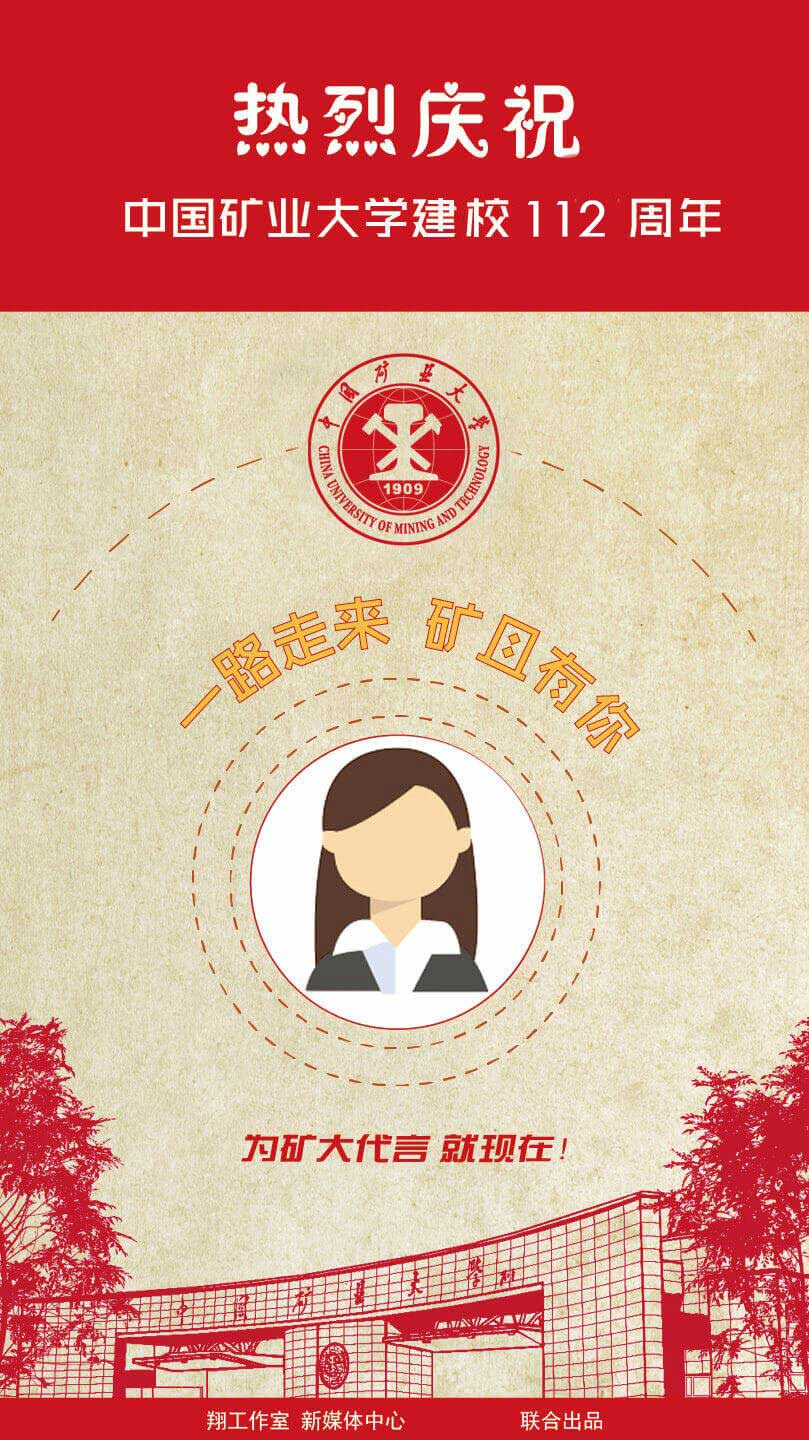
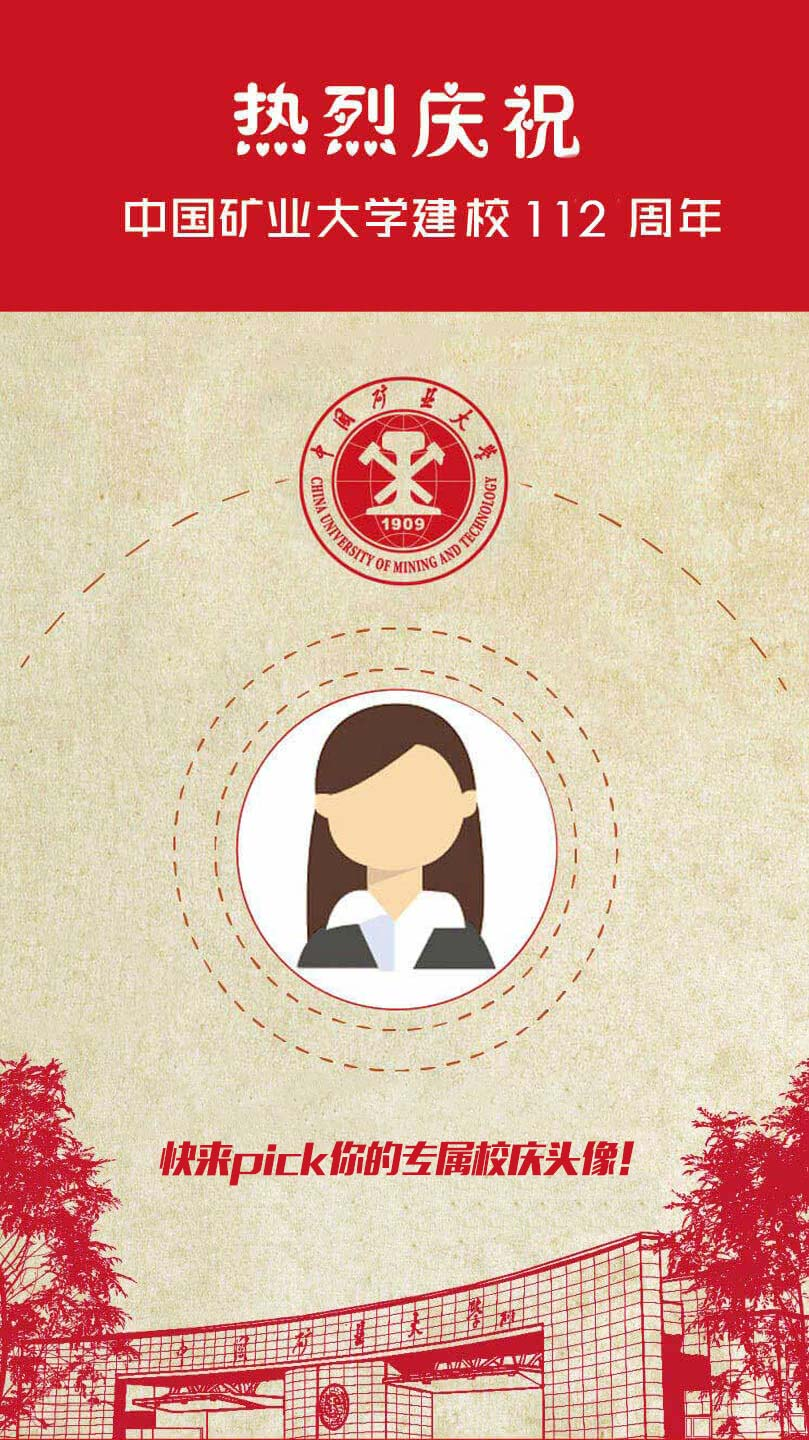
112周年前端页面

diff --git a/pages/index/index.js b/pages/index/index.js
@@ -38,7 +38,7 @@ Page({
   },
 
   runWhenFinishReady: function () {
-    for (let i = 0; i <= 13; i++) {
+    for (let i = 0; i <= 14; i++) {
       this.data.logoArr.push(`../../resource/images/logo_${i}.png`)
     }
     if (app.globalData.avatarUrl) {
@@ -94,15 +94,18 @@ Page({
     } else if (6 <= logoPath && logoPath <= 7) {
       ctx.drawImage(avatarPath, cWidth * 1 / 20, cWidth * 1 / 20, cWidth * 9 / 10, cWidth * 9 / 10);
       ctx.drawImage(that.data.logoArr[logoPath], 0, 0, cWidth, cWidth);
-    } else if (8 <= logoPath && logoPath <= 12) {
+    } else if (8 <= logoPath && logoPath <= 11) {
       ctx.drawImage(avatarPath, cWidth / 16, cWidth / 16, cWidth * 7 / 8, cWidth * 7 / 8);
       ctx.drawImage(that.data.logoArr[logoPath], 0, 0, cWidth, cWidth);
-    } else if (logoPath === 13) {
+    } else if (logoPath === 12) {
       ctx.drawImage(avatarPath, cWidth * 1 / 14, cWidth * 1 / 14, cWidth * 6 / 7, cWidth * 6 / 7);
-      ctx.drawImage(that.data.logoArr[logoPath], 0, 0, cWidth, cWidth);
+      ctx.drawImage(that.data.logoArr[logoPath], 1, -5, cWidth, cWidth);
+    }else if (logoPath === 13) {
+      ctx.drawImage(avatarPath, cWidth * 1 / 14, cWidth * 1 / 14, cWidth * 6 / 7, cWidth * 6 / 7);
+      ctx.drawImage(that.data.logoArr[logoPath], 2, 0, cWidth, cWidth);
     } else if (logoPath === 14) {
-      ctx.drawImage(avatarPath, cWidth * 1 / 8, cWidth * 1 / 8, cWidth * 3 / 4, cWidth * 3 / 4);
-      ctx.drawImage(that.data.logoArr[logoPath], 0, 0, cWidth, cWidth);
+      ctx.drawImage(avatarPath, cWidth * 1 / 14, cWidth * 1 / 14, cWidth * 6 / 7, cWidth * 6 / 7);
+      ctx.drawImage(that.data.logoArr[logoPath], -3, 0, cWidth, cWidth);
     }
 
     ctx.draw();
@@ -132,14 +135,17 @@ Page({
         } else if (6 <= logoPath && logoPath <= 7) {
           ctxHide.drawImage(avatarPath, cWidthHide * 1 / 20, cWidthHide * 1 / 20, cWidthHide * 9 / 10, cWidthHide * 9 / 10);
           ctxHide.drawImage(that.data.logoArr[logoPath], 0, 0, cWidthHide, cWidthHide);
-        } else if (8 <= logoPath && logoPath <= 12) {
+        } else if (8 <= logoPath && logoPath <= 11) {
           ctxHide.drawImage(avatarPath, cWidthHide / 16, cWidthHide / 16, cWidthHide * 7 / 8, cWidthHide * 7 / 8);
+          ctxHide.drawImage(that.data.logoArr[logoPath], 0, 0, cWidthHide, cWidthHide);
+        } else if (logoPath === 12) {
+          ctxHide.drawImage(avatarPath, cWidthHide * 1 / 14, cWidthHide * 1 / 14, cWidthHide * 6 / 7, cWidthHide * 6 / 7);
           ctxHide.drawImage(that.data.logoArr[logoPath], 0, 0, cWidthHide, cWidthHide);
         } else if (logoPath === 13) {
           ctxHide.drawImage(avatarPath, cWidthHide * 1 / 14, cWidthHide * 1 / 14, cWidthHide * 6 / 7, cWidthHide * 6 / 7);
           ctxHide.drawImage(that.data.logoArr[logoPath], 0, 0, cWidthHide, cWidthHide);
         } else if (logoPath === 14) {
-          ctxHide.drawImage(avatarPath, cWidthHide * 1 / 8, cWidthHide * 1 / 8, cWidthHide * 3 / 4, cWidthHide * 3 / 4);
+          ctxHide.drawImage(avatarPath, cWidthHide * 1 / 14, cWidthHide * 1 / 14, cWidthHide * 6 / 7, cWidthHide * 6 / 7);
           ctxHide.drawImage(that.data.logoArr[logoPath], 0, 0, cWidthHide, cWidthHide);
         }
         ctxHide.draw();

diff --git a/pages/nav/nav.js b/pages/nav/nav.js
@@ -8,7 +8,7 @@ Page({
    */
   data: {
     navPageBackPicSrc: '../../resource/images/nav.jpg',
-    flyingstudio: "Powered by FlyingStudio \nMade by Icestains 白乌鸫 TItanium Alan",
+    flyingstudio: "Powered by FlyingStudio \nMade by Icestains 白乌鸫 TItanium Alan Abiscuit",
     isShow: false,
   },
 
@@ -22,7 +22,7 @@ Page({
 
   onShareAppMessage: function(res) {
     return {
-      title: '快来给你换上一个矿大专属头像吧！',
+      title: '快来PICK你的专属校庆头像！',
       path: '/pages/nav/nav',
       imageUrl: app.globalData.sharePicSrc
     }

diff --git a/pages/share/share.js b/pages/share/share.js
@@ -19,7 +19,7 @@ Page({
 
   onShareAppMessage: function (res) {
     return {
-      title: '快来给你换上一个矿大专属头像吧！',
+      title: '快来PICK你的专属校庆头像！',
       path: '/pages/nav/nav',
       imageUrl: app.globalData.sharePicSrc
     }
